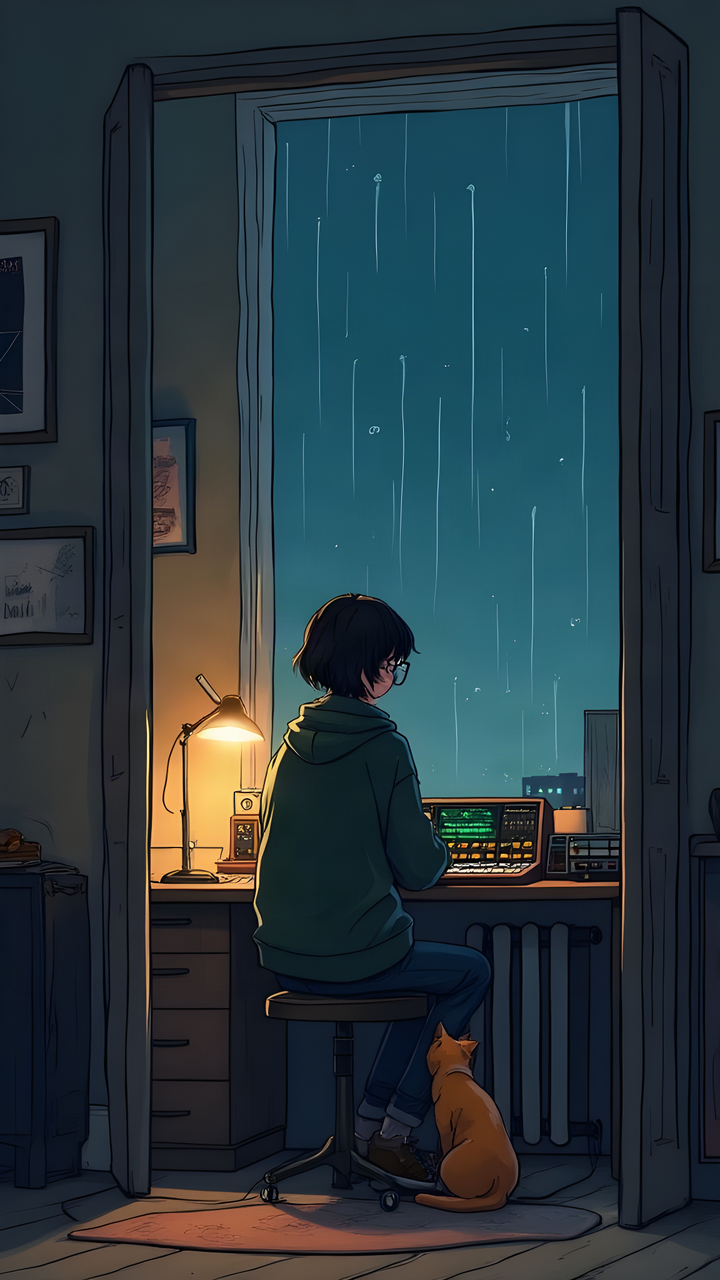
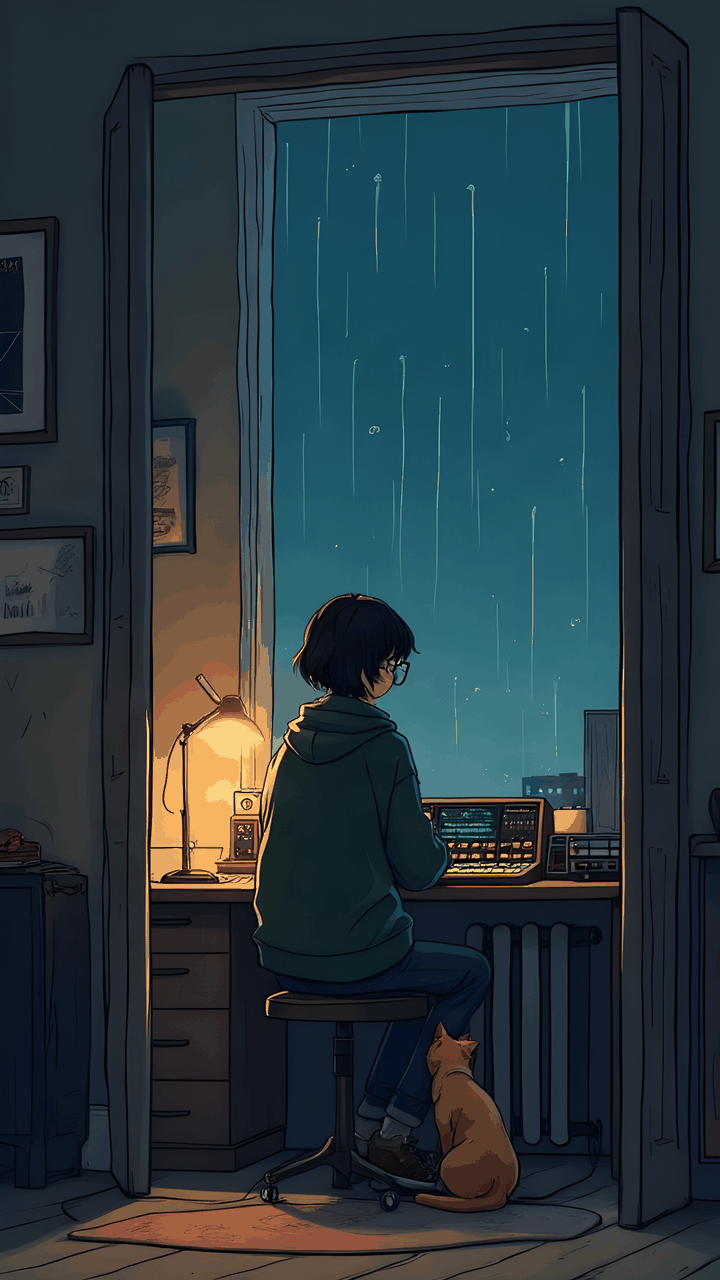
app: 큰 PNG를 wasm 밖 런타임 로드로(호스트 prefetch + assets.Read), 패널·플레이트 256색 팔레트 — app.wasm gzip 4.7MB→2.78MB(예산 3.0), brotli 2.30MB(예산 2.5)

diff --git a/app/web/host.js b/app/web/host.js
@@ -24,6 +24,14 @@
 
   // ==== 계측(스파이크 bridge.js 필드 유지 + 호스트 확장) ====
   const tPageStart = performance.now();
+
+  // ==== 자산 prefetch(큰 PNG는 wasm 밖) — 목록은 app/assets/assets.go의 Names와 같다 ====
+  // app.wasm 다운로드와 병렬로 받는다. Go는 assets.WaitReady()로 완료를 기다린 뒤 jd.asset(name)으로 읽는다.
+  const ASSET_NAMES = ['device/panel.png', 'device/sprites/knob-r25.png', 'device/sprites/knob-r32.png', 'device/sprites/knob-r42.png', 'room/plate-night.png'];
+  const assetBytes = new Map();
+  let assetsState = 0; // 0 진행 중, 1 전부 성공, -1 일부 실패(있는 것만 제공)
+  Promise.all(ASSET_NAMES.map((n) => fetch('assets/' + n).then((r) => { if (!r.ok) throw new Error(n + ' ' + r.status); return r.arrayBuffer(); }).then((buf) => assetBytes.set(n, new Uint8Array(buf))).catch((e) => { console.warn('jd host: 자산 실패', e); assetsState = -1; })))
+    .then(() => { if (assetsState === 0) assetsState = 1; stats.tAssetsReady = performance.now(); });
   const stats = {
     wasmBytes: 0,          // app.wasm 원본 바이트(measure.mjs가 주입)
     wasmGzipBytes: null,
@@ -461,6 +469,8 @@
   const wallOut = [0, 0, 0];
 
   window.jd = {
+    asset(name) { return assetBytes.get(name) || null; },
+    assetsReady() { return assetsState; },
     start,
     cmd,
     tick,

diff --git a/app/assets/assets.go b/app/assets/assets.go
@@ -1,33 +1,36 @@
-// Package assets — UI 자산을 go:embed로 싣는다. 파일명이 계약이다(코드는 크기를 디코딩한 이미지에서 읽는다).
+// Package assets — UI 자산. 작은 것(레이아웃 JSON·폰트 아틀라스)은 go:embed, 큰 PNG(패널·플레이트·스프라이트)는
+// wasm 밖에서 읽는다: 브라우저는 host.js가 페이지 로드와 동시에 prefetch한 바이트를 window.jd.asset(name)로,
+// 데스크톱은 embed FS로. 근거(2026-09-05 실측): PNG를 wasm에 embed하면 gzip이 +1.9MB(이미 압축된 바이트라
+// 줄지 않음)로 예산 3.0MB를 깬다. 파일명이 계약이다 — Read의 name은 "device/panel.png" 꼴.
 //
-// device/  — tools/rack 파이프라인 산출(후보 v1, 2026-09-05): panel.png(720×1280), layout.json(좌표의 단일 소유자),
+// device/  — tools/rack 산출(후보 v1): panel.png(720×1280, 256색 팔레트), layout.json(좌표의 단일 소유자),
 //
-//	sprites/knob-r{25,32,42}.png(반지름 클래스별 노브, 코드가 −135°..+135° 회전)
+//	sprites/knob-r{25,32,42}.png
 //
-// room/    — plate-*.png(720×1280 시간대 플레이트), layout.json(영역), 캐릭터·고양이 포즈 스프라이트
+// room/    — plate-*.png(720×1280 시간대 플레이트, 256색), layout.json(영역), 캐릭터·고양이 포즈 스프라이트
+// font/    — tools/font/atlas.py 산출(Go Bold 22px, ASCII, BSD-3 — ASSETS-LICENSE)
 package assets
 
-import "embed"
-
-//go:embed device/panel.png
-var DevicePanelPNG []byte
+import _ "embed"
 
 //go:embed device/layout.json
 var DeviceLayoutJSON []byte
 
-//go:embed device/sprites/*.png
-var DeviceSprites embed.FS
-
 //go:embed room/layout.json
 var RoomLayoutJSON []byte
 
-//go:embed room/*.png
-var RoomFiles embed.FS
-
-// font/ — tools/font/atlas.py 산출(Go Bold 22px, ASCII, BSD-3 — ASSETS-LICENSE 참조)
-//
 //go:embed font/atlas.png
 var FontAtlasPNG []byte
 
 //go:embed font/atlas.json
 var FontAtlasJSON []byte
+
+// Names — 브라우저 호스트가 prefetch해야 하는 파일 목록(app/web/host.js가 같은 목록을 가진다;
+// build.sh가 app/web/assets/ 아래로 복사한다).
+var Names = []string{
+	"device/panel.png",
+	"device/sprites/knob-r25.png",
+	"device/sprites/knob-r32.png",
+	"device/sprites/knob-r42.png",
+	"room/plate-night.png",
+}

diff --git a/app/view/device/device.go b/app/view/device/device.go
@@ -191,7 +191,7 @@ func New(ctx *core.Ctx) (*View, error) {
 	if err != nil {
 		return nil, err
 	}
-	img, _, err := image.Decode(bytes.NewReader(assets.DevicePanelPNG))
+	img, _, err := image.Decode(bytes.NewReader(mustAsset("device/panel.png")))
 	if err != nil {
 		return nil, fmt.Errorf("device: 패널 디코드: %w", err)
 	}
@@ -203,7 +203,7 @@ func New(ctx *core.Ctx) (*View, error) {
 	}
 	clss := make([]cls, 0, len(l.Sprites))
 	for name, sp := range l.Sprites {
-		data, err := assets.DeviceSprites.ReadFile("device/sprites/" + name)
+		data, err := assets.Read("device/sprites/" + name)
 		if err != nil {
 			return nil, fmt.Errorf("device: 스프라이트 %s: %w", name, err)
 		}
@@ -608,3 +608,12 @@ func (v *View) ResumeTapped() bool { return v.resume }
 
 // DropTapped — play 자리(라벨 DROP) 탭. Drop Cmd는 뷰가 직접 보낸다.
 func (v *View) DropTapped() bool { return v.drop }
+
+// mustAsset — 자산 바이트(없으면 빈 슬라이스 → image.Decode가 오류를 내고 New가 그 오류를 돌려준다).
+func mustAsset(name string) []byte {
+	b, err := assets.Read(name)
+	if err != nil {
+		return nil
+	}
+	return b
+}

diff --git a/app/assets/read_js.go b/app/assets/read_js.go
@@ -1,0 +1,40 @@
+//go:build js && wasm
+
+package assets
+
+import (
+	"errors"
+	"syscall/js"
+	"time"
+)
+
+// Read — 큰 PNG 바이트. 브라우저: host.js가 prefetch해 둔 window.jd.asset(name)(Uint8Array)에서 복사.
+func Read(name string) ([]byte, error) {
+	jd := js.Global().Get("jd")
+	if !jd.Truthy() {
+		return nil, errors.New("assets: window.jd 없음")
+	}
+	arr := jd.Call("asset", name)
+	if !arr.Truthy() {
+		return nil, errors.New("assets: 미로드 " + name)
+	}
+	b := make([]byte, arr.Length())
+	js.CopyBytesToGo(b, arr)
+	return b, nil
+}
+
+// WaitReady — host.js의 prefetch가 끝날 때까지(최대 20초) 대기. 실패하면 false(뷰가 플레이스홀더로 진행).
+func WaitReady() bool {
+	jd := js.Global().Get("jd")
+	if !jd.Truthy() {
+		return false
+	}
+	for i := 0; i < 2000; i++ {
+		r := jd.Call("assetsReady")
+		if r.Truthy() {
+			return r.Int() > 0
+		}
+		time.Sleep(10 * time.Millisecond)
+	}
+	return false
+}

diff --git a/app/view/room/room.go b/app/view/room/room.go
@@ -367,7 +367,7 @@ func New(ctx *core.Ctx) (*View, error) {
 	for i, nm := range names {
 		img, ok := decoded[nm]
 		if !ok {
-			b, err := assets.RoomFiles.ReadFile("room/" + nm)
+			b, err := assets.Read("room/" + nm)
 			if err != nil {
 				return nil, fmt.Errorf("room: plate %s: %w", nm, err)
 			}
@@ -441,7 +441,7 @@ func (v *View) loadPoses(names []string) []*ebiten.Image {
 	}
 	out := make([]*ebiten.Image, len(names))
 	for i, nm := range names {
-		b, err := assets.RoomFiles.ReadFile("room/" + nm)
+		b, err := assets.Read("room/" + nm)
 		if err != nil {
 			continue
 		}

diff --git a/app/main.go b/app/main.go
@@ -244,6 +244,8 @@ func main() {
 	ebiten.SetWindowTitle("장단 / Jangdan")
 	// TPS를 FPS에 동기 — 120Hz 화면에서 기본 TPS 60이면 Update가 프레임을 건너뛴다(스파이크 실측).
 	ebiten.SetTPS(ebiten.SyncWithFPS)
+	// 큰 PNG는 wasm 밖에서 온다(assets 패키지 주석) — 호스트 prefetch 완료까지 대기(데스크톱은 즉시).
+	assets.WaitReady()
 	g, err := newGame()
 	if err != nil {
 		panic(err)

diff --git a/app/assets/read_desktop.go b/app/assets/read_desktop.go
@@ -1,0 +1,14 @@
+//go:build !(js && wasm)
+
+package assets
+
+import "embed"
+
+//go:embed device/*.png device/sprites/*.png room/*.png
+var files embed.FS
+
+// Read — 큰 PNG 바이트. 데스크톱: embed FS.
+func Read(name string) ([]byte, error) { return files.ReadFile(name) }
+
+// WaitReady — 데스크톱은 즉시 준비됨.
+func WaitReady() bool { return true }
